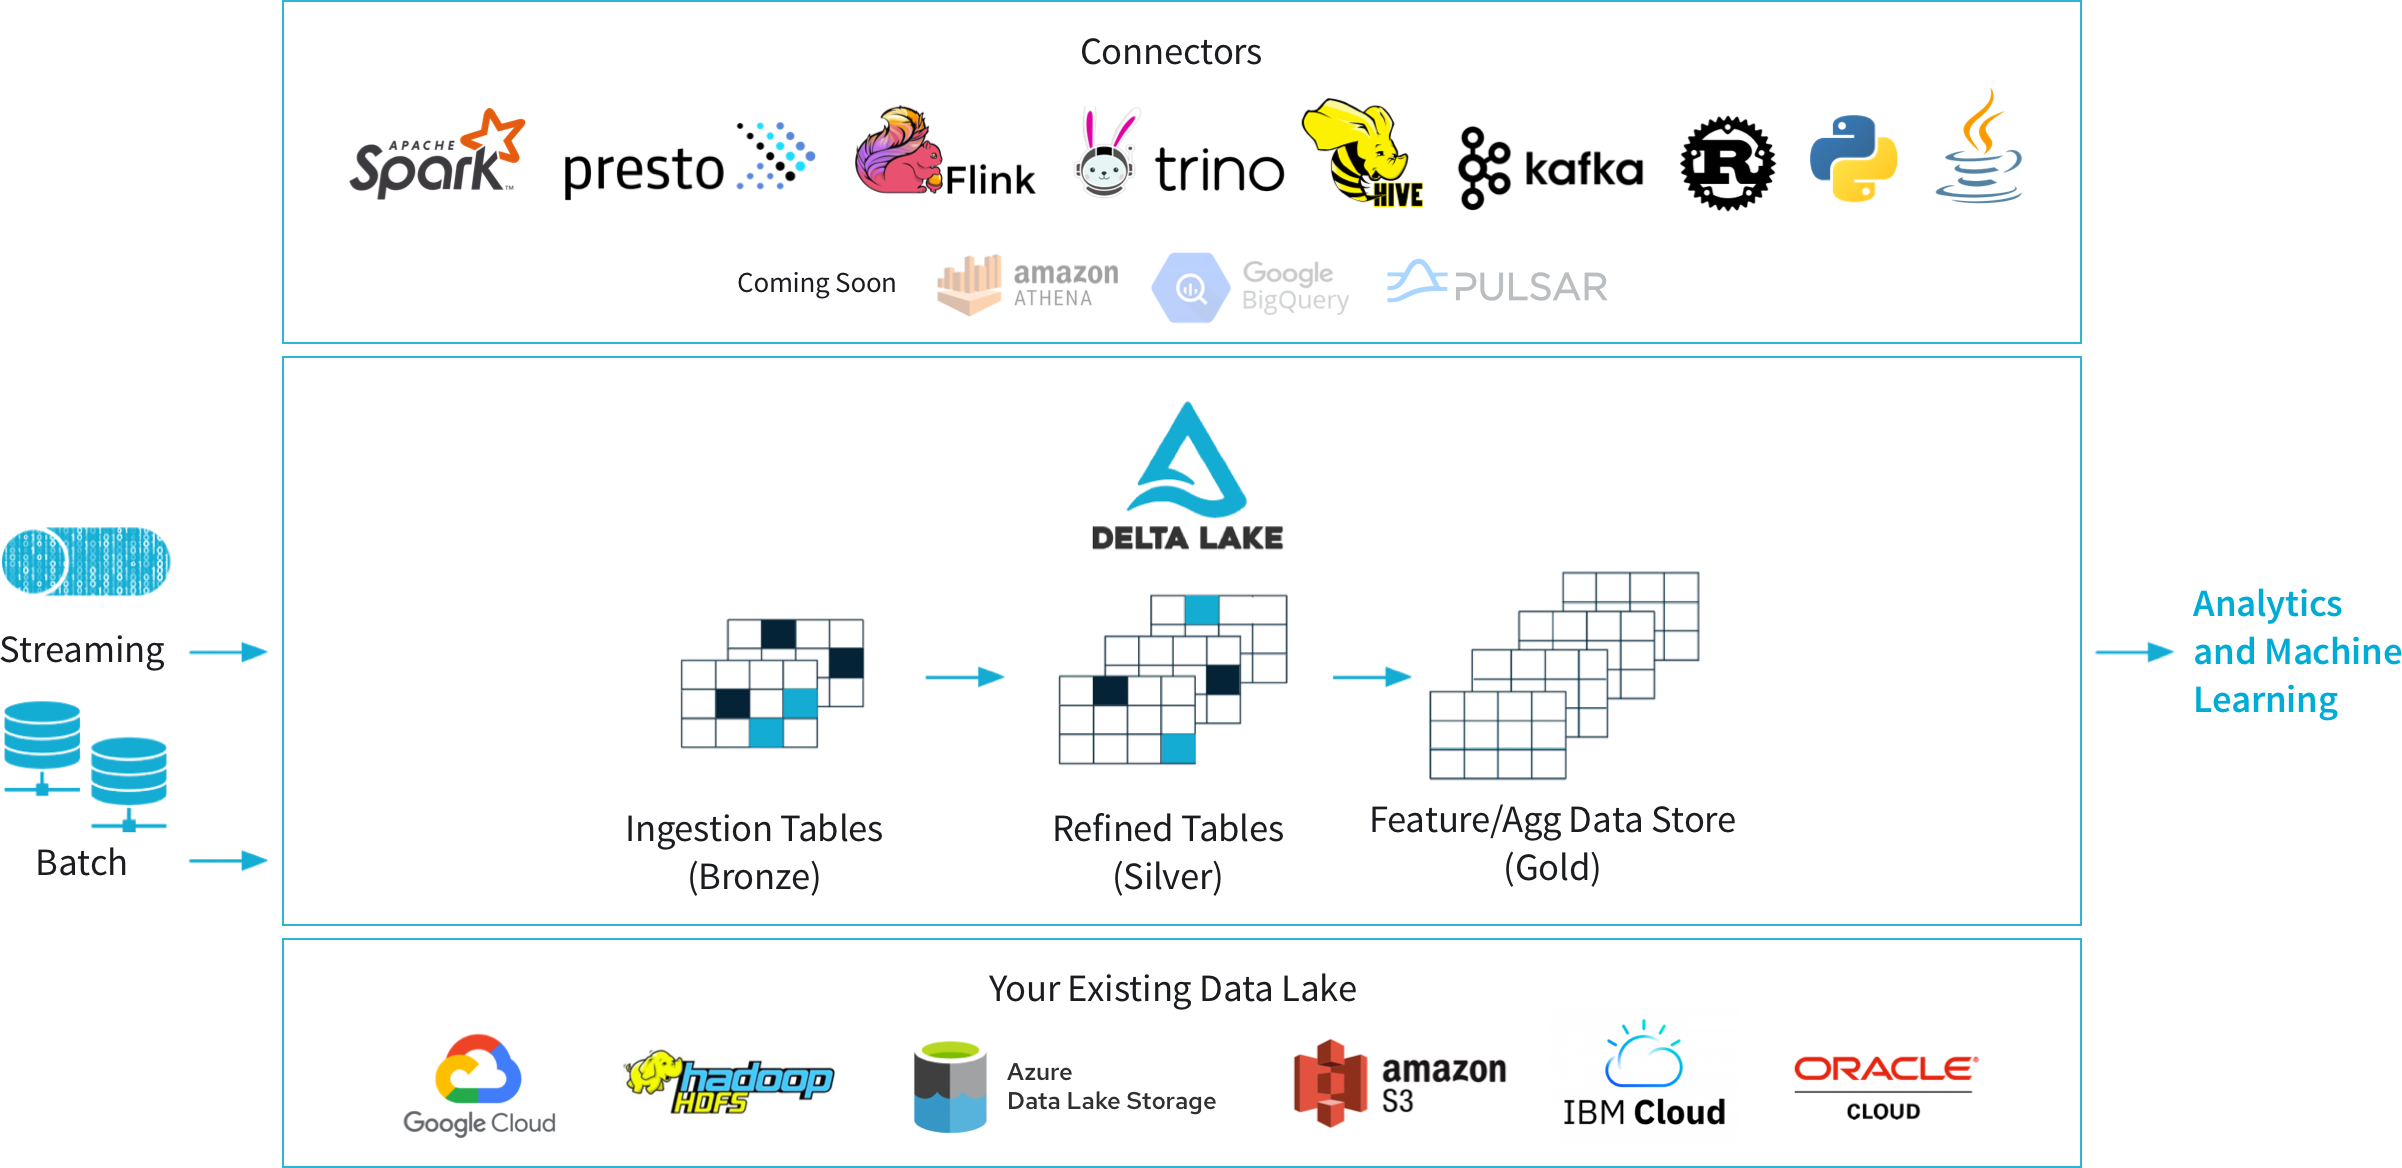
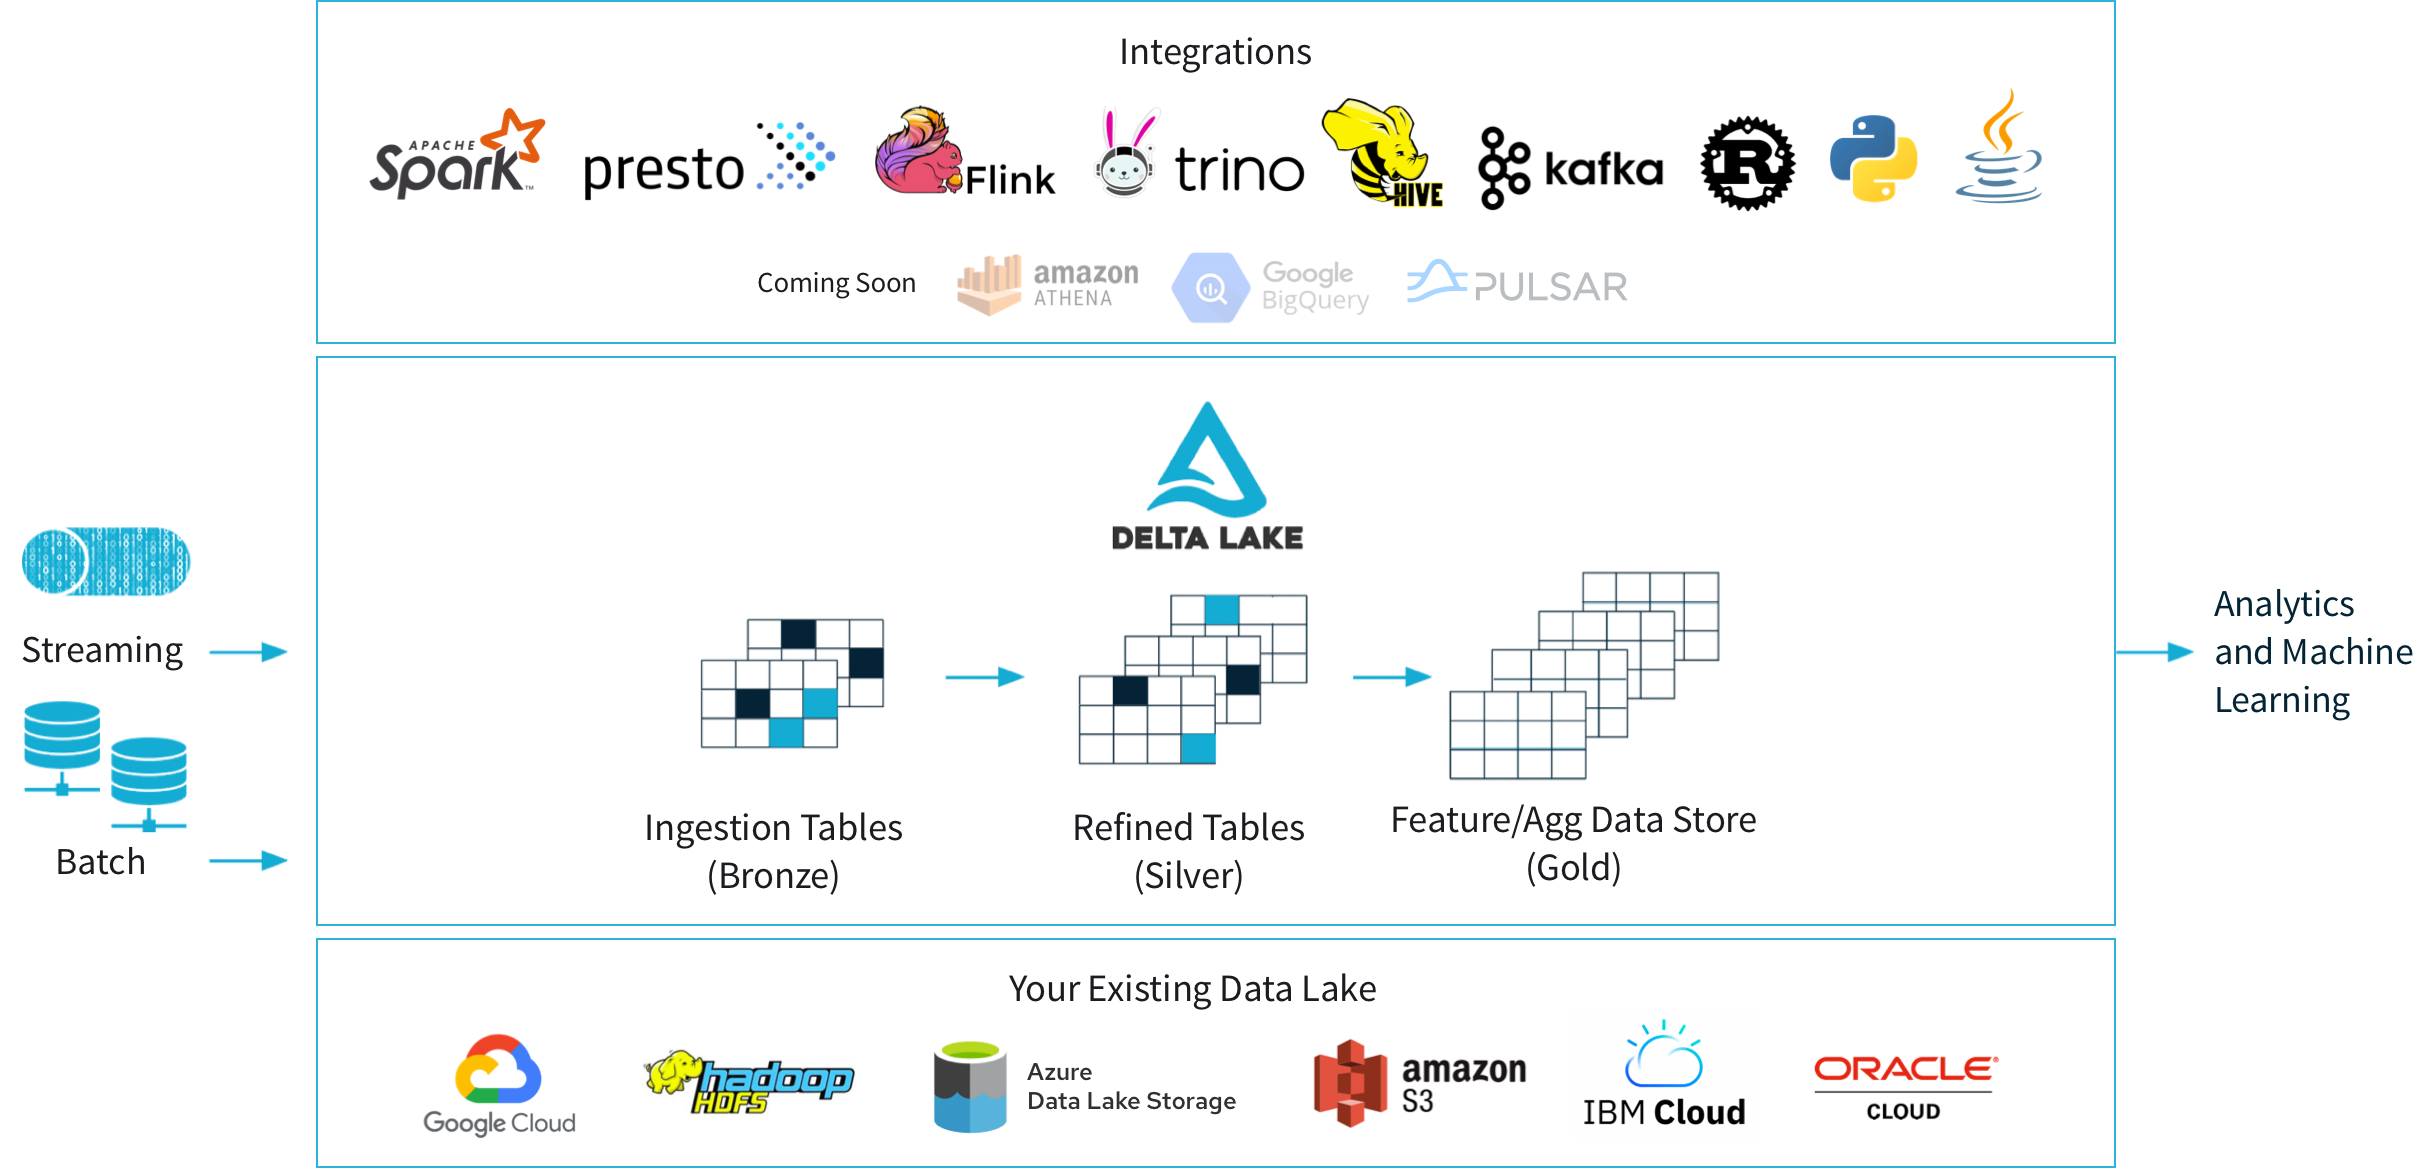
adds images and link to integrations (#47)
* adds images and link to integrations

* fixes lint issue

* updated images

diff --git a/src/components/pages/index/DiagramSection/index.jsx b/src/components/pages/index/DiagramSection/index.jsx
@@ -1,7 +1,8 @@
 import * as React from "react";
 import Section from "src/components/Section";
 import styled from "styled-components";
-import deltaDiagram from "./delta-hp-hero-wide.png";
+import deltaDiagramTop from "./delta-hp-hero-top.png";
+import deltaDiagramBottom from "./delta-hp-hero-bottom.png";
 
 export const imageOffsets = {
   sm: 35,
@@ -15,7 +16,7 @@ const DiagramSectionRoot = styled(Section)`
   padding-bottom: ${(props) => props.theme.spacing.xxl};
 `;
 
-const DiagramWrapper = styled.div`
+const DiagramWrapperTop = styled.div`
   max-width: 2000px;
   margin-left: auto;
   margin-right: auto;
@@ -37,11 +38,27 @@ const DiagramWrapper = styled.div`
   }
 `;
 
+const DiagramWrapperBottom = styled.div`
+  max-width: 2000px;
+  margin-left: auto;
+  margin-right: auto;
+
+  img {
+    width: 100%;
+    height: auto;
+  }
+`;
+
 const DiagramSection = () => (
   <DiagramSectionRoot>
-    <DiagramWrapper>
-      <img src={deltaDiagram} alt="An overview of Delta Lake" />
-    </DiagramWrapper>
+    <DiagramWrapperTop>
+      <a href="/integrations/">
+        <img src={deltaDiagramTop} alt="Delta Lake Integrations" />
+      </a>
+    </DiagramWrapperTop>
+    <DiagramWrapperBottom>
+      <img src={deltaDiagramBottom} alt="An overview of Delta Lake" />
+    </DiagramWrapperBottom>
   </DiagramSectionRoot>
 );
 
